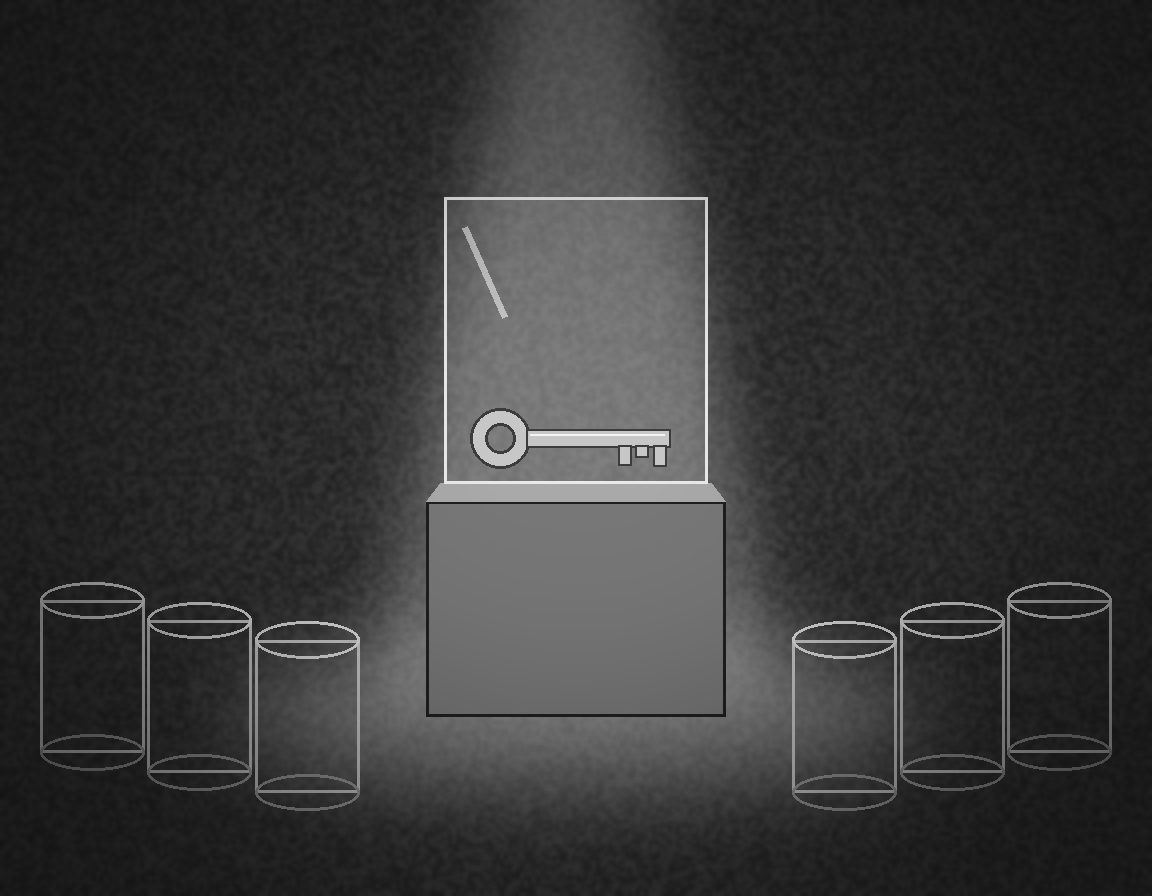
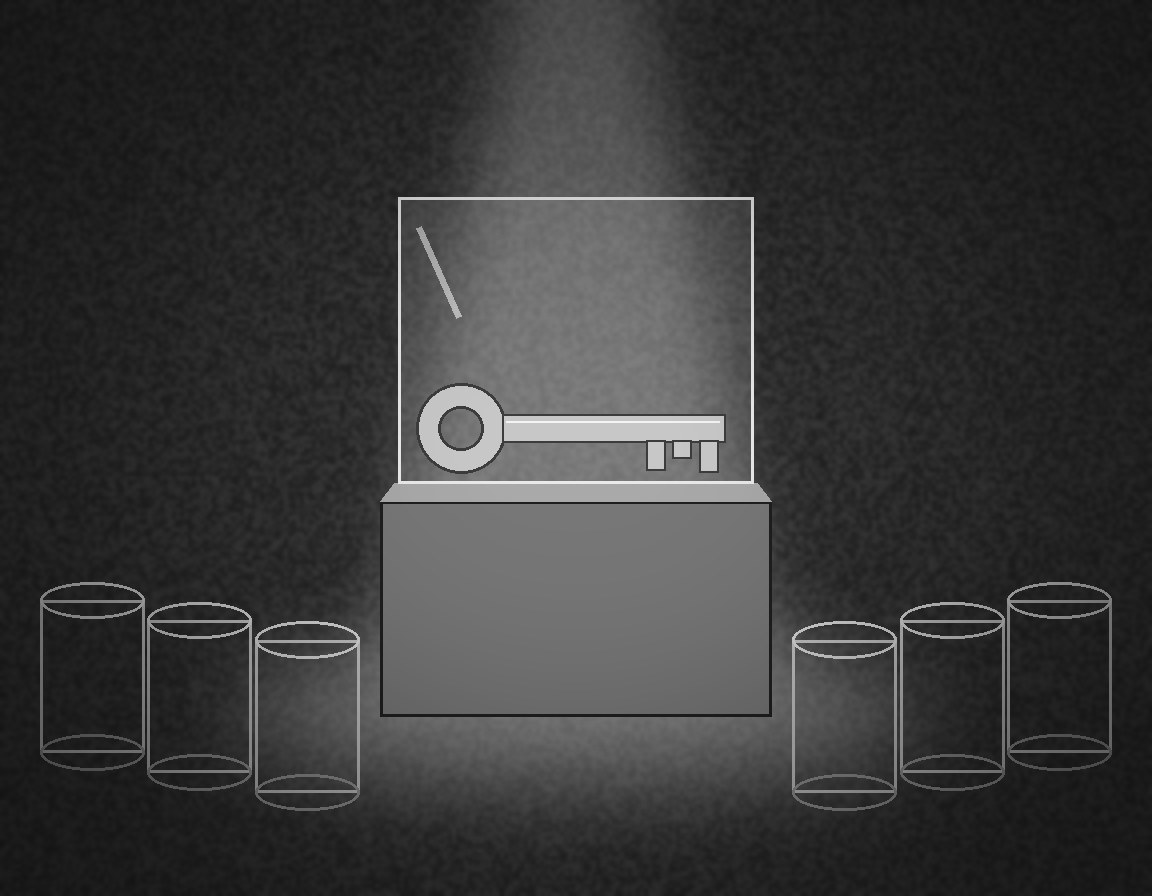
Redo Chapter 1 p23_1: the key turned into a machine; draw it larger, repaint less
Claude-Session: https://claude.ai/code/session_01PF511aGmcMqQ6PCbPbr6tc

diff --git a/tools/manga/sketches.py b/tools/manga/sketches.py
@@ -197,7 +197,7 @@ def key_case(w=1152, h=896, seed=2301):
     img = Image.composite(Image.new("RGB", (w, h), (255, 255, 255)), img, beam.filter(ImageFilter.GaussianBlur(30)))
     img = light_pool(img, w // 2, int(h * 0.8), int(w * 0.3), int(h * 0.09), gain=90)
     d = ImageDraw.Draw(img)
-    px0, px1, ptop, pbot = int(w * 0.37), int(w * 0.63), int(h * 0.56), int(h * 0.8)
+    px0, px1, ptop, pbot = int(w * 0.33), int(w * 0.67), int(h * 0.56), int(h * 0.8)
     d.rectangle([px0, ptop, px1, pbot], fill=(120, 120, 120), outline=(30, 30, 30), width=3)  # pedestal
     d.polygon([(px0, ptop), (px1, ptop), (px1 - 14, ptop - 18), (px0 + 14, ptop - 18)], fill=(170, 170, 170))
     gx0, gx1, gtop = px0 + 18, px1 - 18, int(h * 0.22)
@@ -206,8 +206,8 @@ def key_case(w=1152, h=896, seed=2301):
     gd.rectangle([gx0, gtop, gx1, ptop - 18], fill=(220, 220, 220, 40), outline=(235, 235, 235, 255), width=3)
     gd.line([(gx0 + 20, gtop + 30), (gx0 + 60, gtop + 120)], fill=(255, 255, 255, 160), width=6)  # reflection
     img = Image.alpha_composite(img.convert("RGBA"), glass)
-    key = old_key((gx1 - gx0) * 0.8, angle=0)
-    img.alpha_composite(key, (int((gx0 + gx1 - key.width) / 2), int(ptop - 18 - key.height * 0.85)))
+    key = old_key((gx1 - gx0) * 0.9, angle=0)
+    img.alpha_composite(key, (int((gx0 + gx1 - key.width) / 2), int(ptop - 18 - key.height * 0.8)))
     img = img.convert("RGB")
     d = ImageDraw.Draw(img)
     for k in range(10):  # empty transparent token containers on the floor, either side
